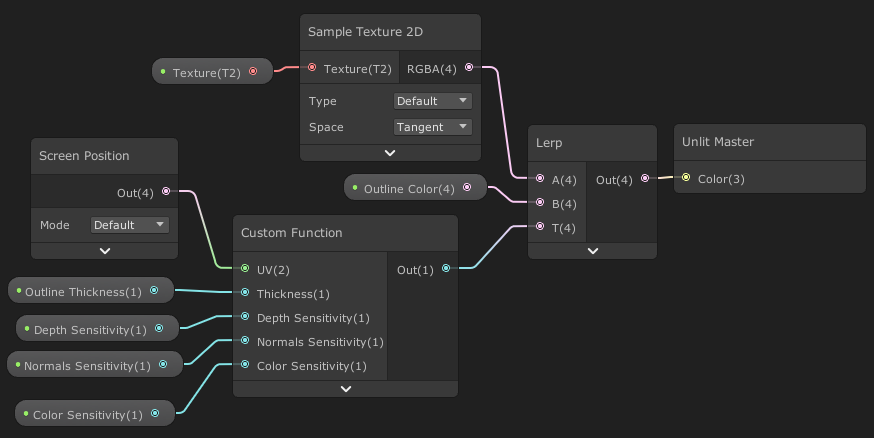
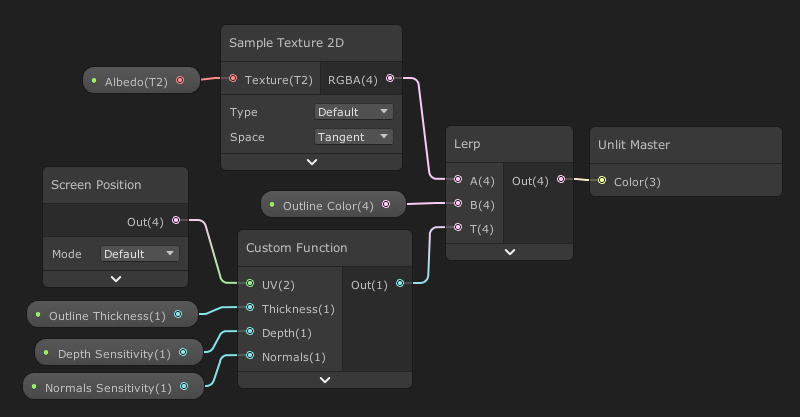
Added per-object outline section in tutorial

Changed region(s): [[0.0, 0.0312, 1.0, 0.9976], [0.4375, 0.6547, 0.5312, 0.717], [0.7188, 0.53, 0.75, 0.5923]]

diff --git a/outlineshader.html b/outlineshader.html
@@ -236,13 +236,20 @@
     <br>
 
 
-   <!-- <h2 class="mt-4 mb-3">Per-object Outline</h2>
-    <p>In the case that you only want an outline applied to specific objects in the scene, simply remove the 2nd image
-      effect pass and change the outline shader to output the float <i>edge</i> instead of overlaying it with the
-      <i>_CameraColorTexture</i>. Then, use the following nodes.</p>
-
+    <h2 class="mt-4 mb-3">Per-object Outline</h2>
+    <p>In the case that we only want an outline applied to a specific object instead of all the objects in the scene as
+      an image effect, we need to do the following. First, we remove the 2nd renderer feature so we now only have the
+      <i>DepthNormalsFeature</i> as our renderer feature. Next, we modify the Outline.hlsl file slightly.</p>
 
     <br>
+    <script src="https://gist.github.com/AlexanderAmeye/d956574a67adf885f4e008d68b1c3238.js"></script>
+
+    <br>
+    <p>Instead of blending with the scene color and returning a float4, we will simply return the <i>edge</i> variable
+      which is a float1. Please note that I removed outlines based on color in this example, this is because I was
+      having strange issues with it. I will try to resolve these at a later time.</p>
+
+    <p>We can use the following node setup.</p>
     <div class="text-center">
       <figure class="figure ">
         <img src="img/shaders/outline/perobjectoutline.png" width="800" class="figure-img" alt="">
@@ -251,10 +258,9 @@
     </div>
     <br>
 
-    <p>This will lerp between an outline color and the main texture based on where the outline is. Please note that the
-      output of the custom function node was changed to a vector1 since we now output 1 or 0 whether there is an outline
-      or not instead of a color.</p>
-    <br>-->
+    <p>This node setup will lerp between an outline color and the main texture based on where the outline is. And that
+      should do it! You can now apply the material to an object and only that object will have an outline.</p>
+    <br>
     <h2 class="mt-4 mb-3">Useful Resources</h2>
     <p>Here are some extra resources that helped me write this tutorial.</p>
 
